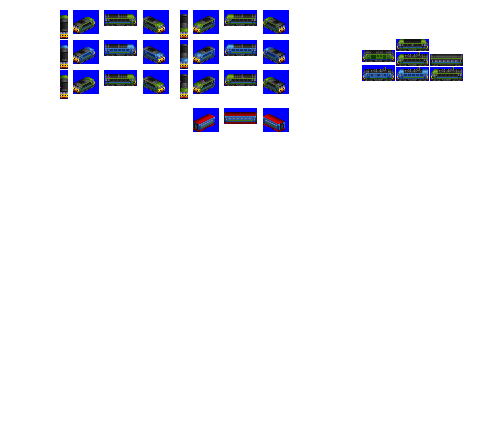
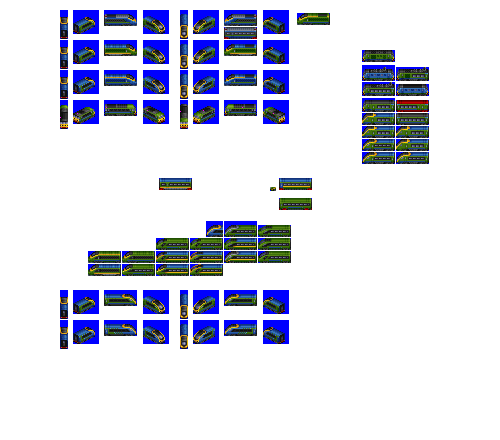
Change: WIP on Alize sprites

diff --git a/src/vehicles/alize_cab.py b/src/vehicles/alize_cab.py
@@ -12,11 +12,11 @@ def main(roster_id):
         power_by_power_source={
             "AC": 1700,
         },
-        pantograph_type="z-shaped-single-reversed",
+        pantograph_type="z-shaped-single-with-base",
         gen=5,
         intro_year_offset=-3,  # introduce earlier than gen epoch by design
         # note that livery names are metadata only and can repeat for different spriterows
-        additional_liveries=["WHITE_STRIPE"],
+        additional_liveries=["SWOOSH", "SWOOSH"],
         sprites_complete=False,
     )
 
